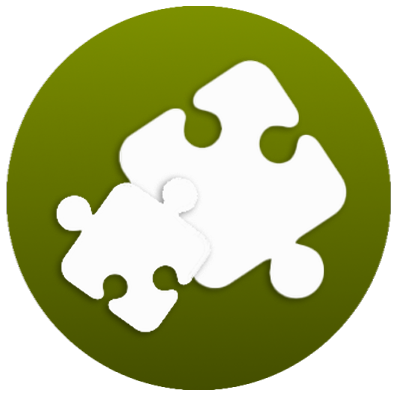
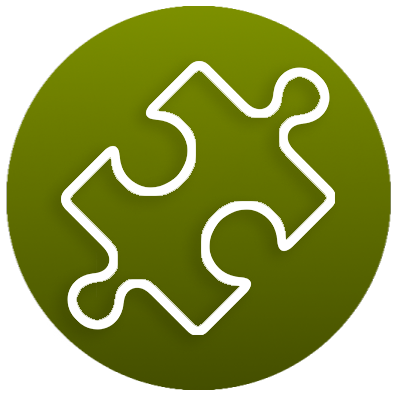
update fs25.settings.js, fs25-mods-1.png, fs25-mods-2.png and fs25-mods-3.png

Changed region(s): [[0.1212, 0.1515, 0.8788, 0.8485]]

diff --git a/mods/js/fs25.settings.js b/mods/js/fs25.settings.js
@@ -6,7 +6,8 @@
     // CUSTOM CONSTANTS
     const numMapsArray = Array.from({ length: 50 }, (_, i) => `map-${i + 1}`);
     const numTexturesArray = Array.from({ length: 50 }, (_, i) => `texture-${i + 1}`);
-    const numOthersArray = Array.from({ length: 50 }, (_, i) => `others-${i + 1}`);
+    const numOthersArray = Array.from({ length: 50 }, (_, i) => `other-${i + 1}`);
+    const numModsArray = Array.from({ length: 50 }, (_, i) => `mod-${i + 1}`);
 
     const TopFx = `<svg xmlns="http://www.w3.org/2000/svg" viewBox="0 0 256 256"><path d="M238.7,73.5A15.9,15.9,0,0,0,222,71.2L171.4,93.7,142,40.7a16.1,16.1,0,0,0-28,0l-29.4,53L34,71.2A16,16,0,0,0,11.9,89.5L37.3,197.8a15.9,15.9,0,0,0,7.4,10.1,16.2,16.2,0,0,0,8.3,2.3,15.2,15.2,0,0,0,4.2-.6,265.5,265.5,0,0,1,141.5,0,16.5,16.5,0,0,0,12.5-1.7,15.6,15.6,0,0,0,7.4-10.1L244.1,89.5A16,16,0,0,0,238.7,73.5Z"/></svg>`;
 
@@ -26,15 +27,14 @@
             "ItemFxIcon": [
                 ...numMapsArray,
                 ...numTexturesArray,
-                "ZZZ_FS25_FilltypesTP_for_all.zip",
+                ...numOthersArray,
+                ...numModsArray,
             ],
         },
         customIcons: {},
         folderIconDefinitions: {},
         folderIconAssignments: {},
-        customFolderIcons: {
-            "1L8VdtjPgoVkN-LQeejAnvixvwfH0RsmQ": "https://www.justkaarlo.com/res/src/fs25-mods-2.png",
-        },
+        customFolderIcons: {},
         highlightFiles: [],
         colorizeFiles: [],
         excludePartsFolders: [],
@@ -42,22 +42,24 @@
         showDownloadButtonForAllFiles: true,
         downloadButtonFiles: [],
         excludeDownloadFiles: [
-            "1L8VdtjPgoVkN-LQeejAnvixvwfH0RsmQ",
             "fs25-maps",
             "fs25-textures",
             "fs25-others",
+            "fs25-mods",
             ...numMapsArray,
             ...numTexturesArray,
+            ...numOthersArray,
         ],
         customDownloadLinks: {
-            "ZZZ_FS25_FilltypesTP_for_all.zip": "https://raw.githubusercontent.com/JustKaarlo/justkaarlo.github.io/refs/heads/Home/data/fs25/ZZZ_FS25_FilltypesTP_for_all.zip",
+            "mod-1": "https://raw.githubusercontent.com/JustKaarlo/justkaarlo.github.io/refs/heads/Home/data/fs25/ZZZ_FS25_FilltypesTP_for_all.zip",
         },
         customWebsiteLinks: {
-            "1L8VdtjPgoVkN-LQeejAnvixvwfH0RsmQ": "https://www.kingmods.net/en/fs25/new-mods",
             "fs25-maps": "https://www.kingmods.net/en/fs25/categories/maps",
             "fs25-textures": "https://www.kingmods.net/en/fs25/categories/miscellaneous/textures",
             "fs25-others": "https://www.kingmods.net/en/fs25/categories/miscellaneous/other-mods",
+            "fs25-mods": "https://www.kingmods.net/en/fs25/new-mods",
 
+            // MAPS
             "map-1": "https://www.kingmods.net/en/fs25/mods/71475/map-1-20-4x",
             "map-2": "https://www.kingmods.net/en/fs25/mods/71098/am-nord-ostsee-kanal-4x",
             "map-3": "https://www.kingmods.net/en/fs25/mods/69427/back-roads-county-4x",
@@ -109,10 +111,11 @@
             "texture-1": "https://www.kingmods.net/en/fs25/mods/72666/realistic-wheat-barley-europe-growth-cycle",
             "texture-2": "https://www.kingmods.net/en/fs25/mods/72607/realistic-canola-growth-cycle-in-europe",
 
-            "ZZZ_FS25_FilltypesTP_for_all.zip": "https://www.patreon.com/posts/fs25-filltypestp-139915899",
+            // MODS
+            "mod-1": "https://www.patreon.com/posts/fs25-filltypestp-139915899",
         },
         tooltipData: {
-            // CUSTOM FILES
+            // MAPS
             "map-1": {
                 images: [
                     "https://www.kingmods.net/uploads/fs25/mods/thuringen-20-4x-fs25-hJdoz.jpg",
@@ -455,40 +458,37 @@
                     "https://www.kingmods.net/uploads/fs25/mods/realistic-canola-growth-cycle-in-europe-fs25-9tF2W.jpg",
                 ],
             },
-            "ZZZ_FS25_FilltypesTP_for_all.zip": {
+
+            // MODS
+            "mod-1": {
                 description: "FilltypesTP for all maps allow any player have all filltypes in any map without need editing files from the map.",
             },
         },
         showDownloadButtonAtRoot: true,
-        customDisplayNames: {
-            "ZZZ_FS25_FilltypesTP_for_all.zip": "FilltypesTP For All",
-        },
+        customDisplayNames: {},
         tagDefinitions: {
+            // GENERAL TAGS
+            "top1": { text: TopFx, color: "#e4af00", opacity: 0.6, textColor: "#c8c8c8ff", textOpacity: 0.75 },
+            "top2": { text: TopFx, color: "#965f00", opacity: 0.6, textColor: "#c8c8c8ff", textOpacity: 0.65 },
+            "top3": { text: TopFx, color: "#899A17", opacity: 0.6, textColor: "#c8c8c8ff", textOpacity: 0.65 },
+            "top4": { text: TopFx, color: "#8f8f8f", opacity: 0.6, textColor: "#c8c8c8ff", textOpacity: 0.7 },
+
+            "wip": { text: "WIP", color: "#7d9000", opacity: 0.5, textOpacity: 0.45 },
+            "beta": { text: "BETA", color: "#7d9000", opacity: 0.5, textOpacity: 0.45 },
+            "outdated": { text: "Outdated", color: "#5e5f5eff", opacity: 0.2, textOpacity: 0.35 },
+
             // MAPS TAGS
             "1x-map": { text: "1x", color: "#7d9000", opacity: 0.5, textOpacity: 0.45 },
             "2x-map": { text: "2x", color: "#7d9000", opacity: 0.5, textOpacity: 0.45 },
             "4x-map": { text: "4x", color: "#7d9000", opacity: 0.5, textOpacity: 0.45 },
             "8x-map": { text: "8x", color: "#7d9000", opacity: 0.5, textOpacity: 0.45 },
             "16x-map": { text: "16x", color: "#7d9000", opacity: 0.5, textOpacity: 0.45 },
-            "wip": { text: "WIP", color: "#7d9000", opacity: 0.5, textOpacity: 0.45 },
-            "beta": { text: "BETA", color: "#7d9000", opacity: 0.5, textOpacity: 0.45 },
-            "outdated": { text: "Outdated", color: "#5e5f5eff", opacity: 0.2, textOpacity: 0.35 },
-            "top1": { text: TopFx, color: "#e4af00", opacity: 0.6, textColor: "#c8c8c8ff", textOpacity: 0.75 },
-            "top2": { text: TopFx, color: "#965f00", opacity: 0.6, textColor: "#c8c8c8ff", textOpacity: 0.65 },
-            "top3": { text: TopFx, color: "#899A17", opacity: 0.6, textColor: "#c8c8c8ff", textOpacity: 0.65 },
-            "top4": { text: TopFx, color: "#8f8f8f", opacity: 0.6, textColor: "#c8c8c8ff", textOpacity: 0.7 },
+
+            // MODS TAGS
+           "misc": { text: "Misc", color: "#888888", opacity: 0.5, textColor: "#c1c1c1", textOpacity: 0.6 },
         },
         tagAssignments: {
-            "1x-map": [
-                "map-10", "map-34", "map-35", "map-36", "map-37", "map-38", "map-23", "map-40", "map-42", "map-43", "map-44", "map-45", "map-46",
-            ],
-            "2x-map": [],
-            "4x-map": [
-                "map-1", "map-2", "map-3", "map-4", "map-6", "map-7", "map-11", "map-8", "map-9", "map-12", "map-13", "map-14", "map-15", "map-16", "map-17", "map-18", "map-19", "map-20", "map-21", "map-22", "map-24", "map-25", "map-26", "map-27", "map-28", "map-29", "map-30", "map-31", "map-32", "map-33", "map-39", "map-41",
-            ],
-            "16x-map": [
-                "map-5",
-            ],
+            // GENERAL
             "wip": [],
             "beta": [],
             "outdated": [],
@@ -504,25 +504,44 @@
             "top4": [
                 "map-7", "map-15","map-16", "map-13", "map-14", "map-21",
             ],
+
+            // MAPS
+            "1x-map": [
+                "map-10", "map-34", "map-35", "map-36", "map-37", "map-38", "map-23", "map-40", "map-42", "map-43", "map-44", "map-45", "map-46",
+            ],
+            "2x-map": [],
+            "4x-map": [
+                "map-1", "map-2", "map-3", "map-4", "map-6", "map-7", "map-11", "map-8", "map-9", "map-12", "map-13", "map-14", "map-15", "map-16", "map-17", "map-18", "map-19", "map-20", "map-21", "map-22", "map-24", "map-25", "map-26", "map-27", "map-28", "map-29", "map-30", "map-31", "map-32", "map-33", "map-39", "map-41",
+            ],
+            "16x-map": [
+                "map-5",
+            ],
+
+            // MODS
+            "misc": [
+                "mod-1",
+            ],
         },
         customTags: {
-            "ZZZ_FS25_FilltypesTP_for_all.zip": [
+            "mod-1": [
                 { text: "v9.0.0.0", color: "#95ac00", opacity: 0.5, textOpacity: 0.45 }
             ],
         },
         hideAllSizeTags: false,
         hideSizeTagFiles: [
             ...numMapsArray,
+            ...numTexturesArray,
+            ...numOthersArray,
+            ...numModsArray,
         ],
         hideSizeTagFolders: [
-            "1L8VdtjPgoVkN-LQeejAnvixvwfH0RsmQ",
-
-            // CUSTOM FOLDERS
             "fs25-maps",
             "fs25-textures",
             "fs25-others",
+            "fs25-mods",
         ],
         customFiles: [
+            // MAPS
             {
                 id: "map-1",
                 name: "Thüringen",
@@ -814,6 +833,16 @@
                 mimeType: "application/zip",
                 parentId: "fs25-textures"
             },
+
+            // MODS
+            {
+                id: "mod-1",
+                name: "FilltypesTP For All",
+                mimeType: "application/zip",
+                parentId: "fs25-mods"
+            },
+
+            // OTHERS
         ],
         customFolders: [
             {
@@ -833,7 +862,13 @@
                 name: "Others",
                 mimeType: "application/vnd.google-apps.folder",
                 icon: "https://www.justkaarlo.com/res/src/fs25-others.png",
-            }
+            },
+            {
+                id: "fs25-mods",
+                name: "Mods",
+                mimeType: "application/vnd.google-apps.folder",
+                icon: "https://www.justkaarlo.com/res/src/fs25-mods-2.png",
+            },
         ],
     });
     attachDocPreview(fsContainer);
